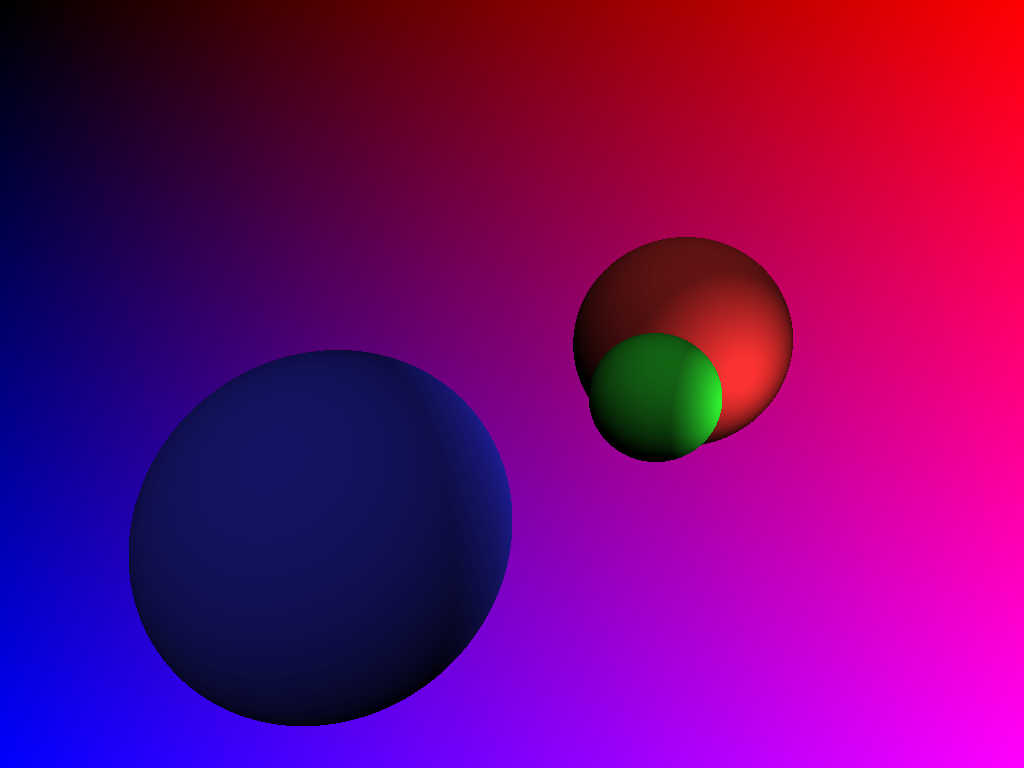
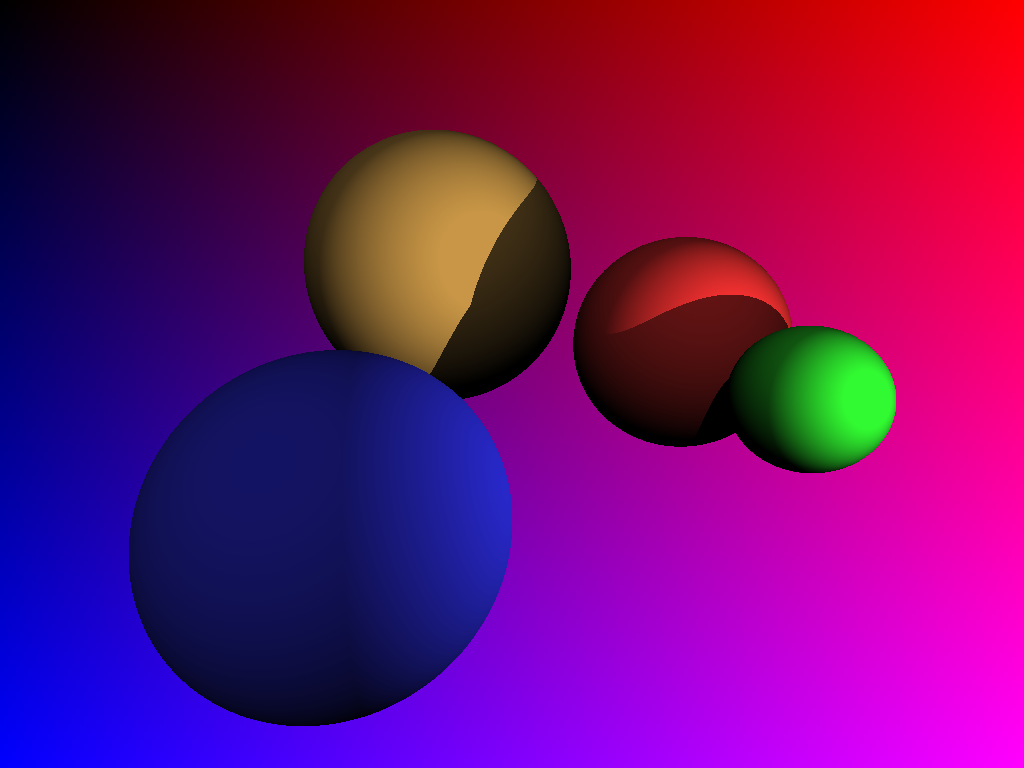
Implement shadows

Changed region(s): [[0.2812, 0.1562, 0.5625, 0.9375], [0.5625, 0.3125, 0.875, 0.625]]

diff --git a/src/main.rs b/src/main.rs
@@ -53,12 +53,7 @@ fn draw(buffer: &mut Buffer) {
             diffuse_color: Rgb(250, 50, 50),
         },
         Sphere {
-            origin: Vec3::new(3.2, 1.8, -10.0),
-            radius: 1.0, // fully inside the previous sphere
-            diffuse_color: Rgb(0, 0, 0),
-        },
-        Sphere {
-            origin: Vec3::new(2.2, 0.8, -8.0),
+            origin: Vec3::new(4.0, 0.8, -7.0),
             radius: 1.0, // slighly close the camera then the first shpere
             diffuse_color: Rgb(50, 250, 50),
         },
@@ -67,15 +62,20 @@ fn draw(buffer: &mut Buffer) {
             radius: 1.0, // slighly close the camera then the first shpere
             diffuse_color: Rgb(50, 50, 250),
         },
+        Sphere {
+            origin: Vec3::new(-2.2, 4.5, -16.0),
+            radius: 4.0, // slighly close the camera then the first shpere
+            diffuse_color: Rgb(200, 150, 70),
+        },
     ];
 
     let lights = vec![
         Light {
-            origin: Vec3::new(-4.0, 400.0, 700.0),
+            origin: Vec3::new(-4.0, 40.0, 70.0),
             intensity: 0.4,
         },
         Light {
-            origin: Vec3::new(4.0, 0.5, -7.0),
+            origin: Vec3::new(5.0, 0.5, -4.0),
             intensity: 0.8,
         },
     ];
@@ -99,6 +99,14 @@ fn draw(buffer: &mut Buffer) {
 
                     for light in &lights {
                         let light_direction = (light.origin - point_on_sphere).normalize();
+                        let obstructing_sphere = scene_intersect(
+                            &light.origin,
+                            &(point_on_sphere - light.origin),
+                            &spheres,
+                        );
+                        if obstructing_sphere.is_some() && obstructing_sphere.unwrap().0 != sphere {
+                            continue;
+                        }
 
                         diffuse_intensity += (light_direction * normal).max(0.0) * light.intensity;
                     }
